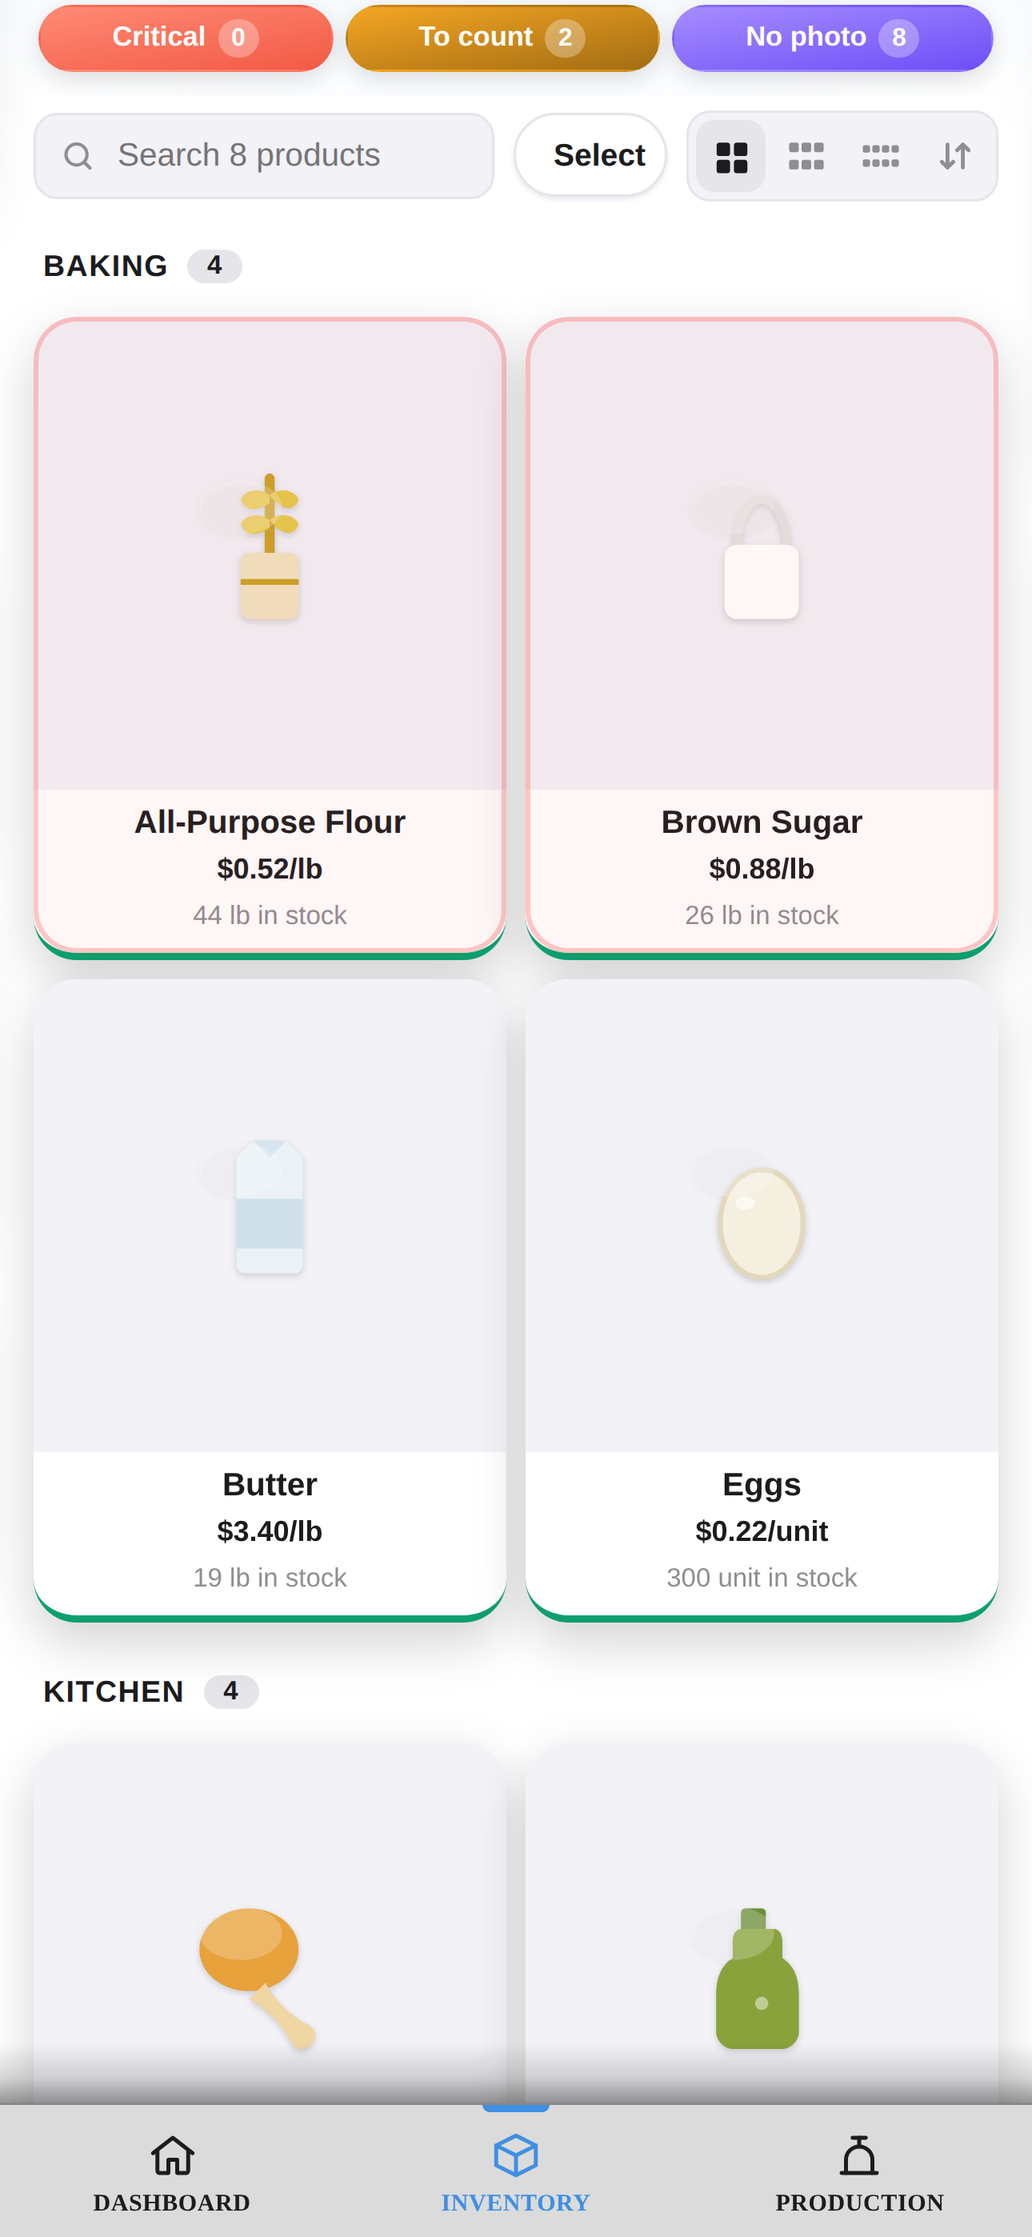
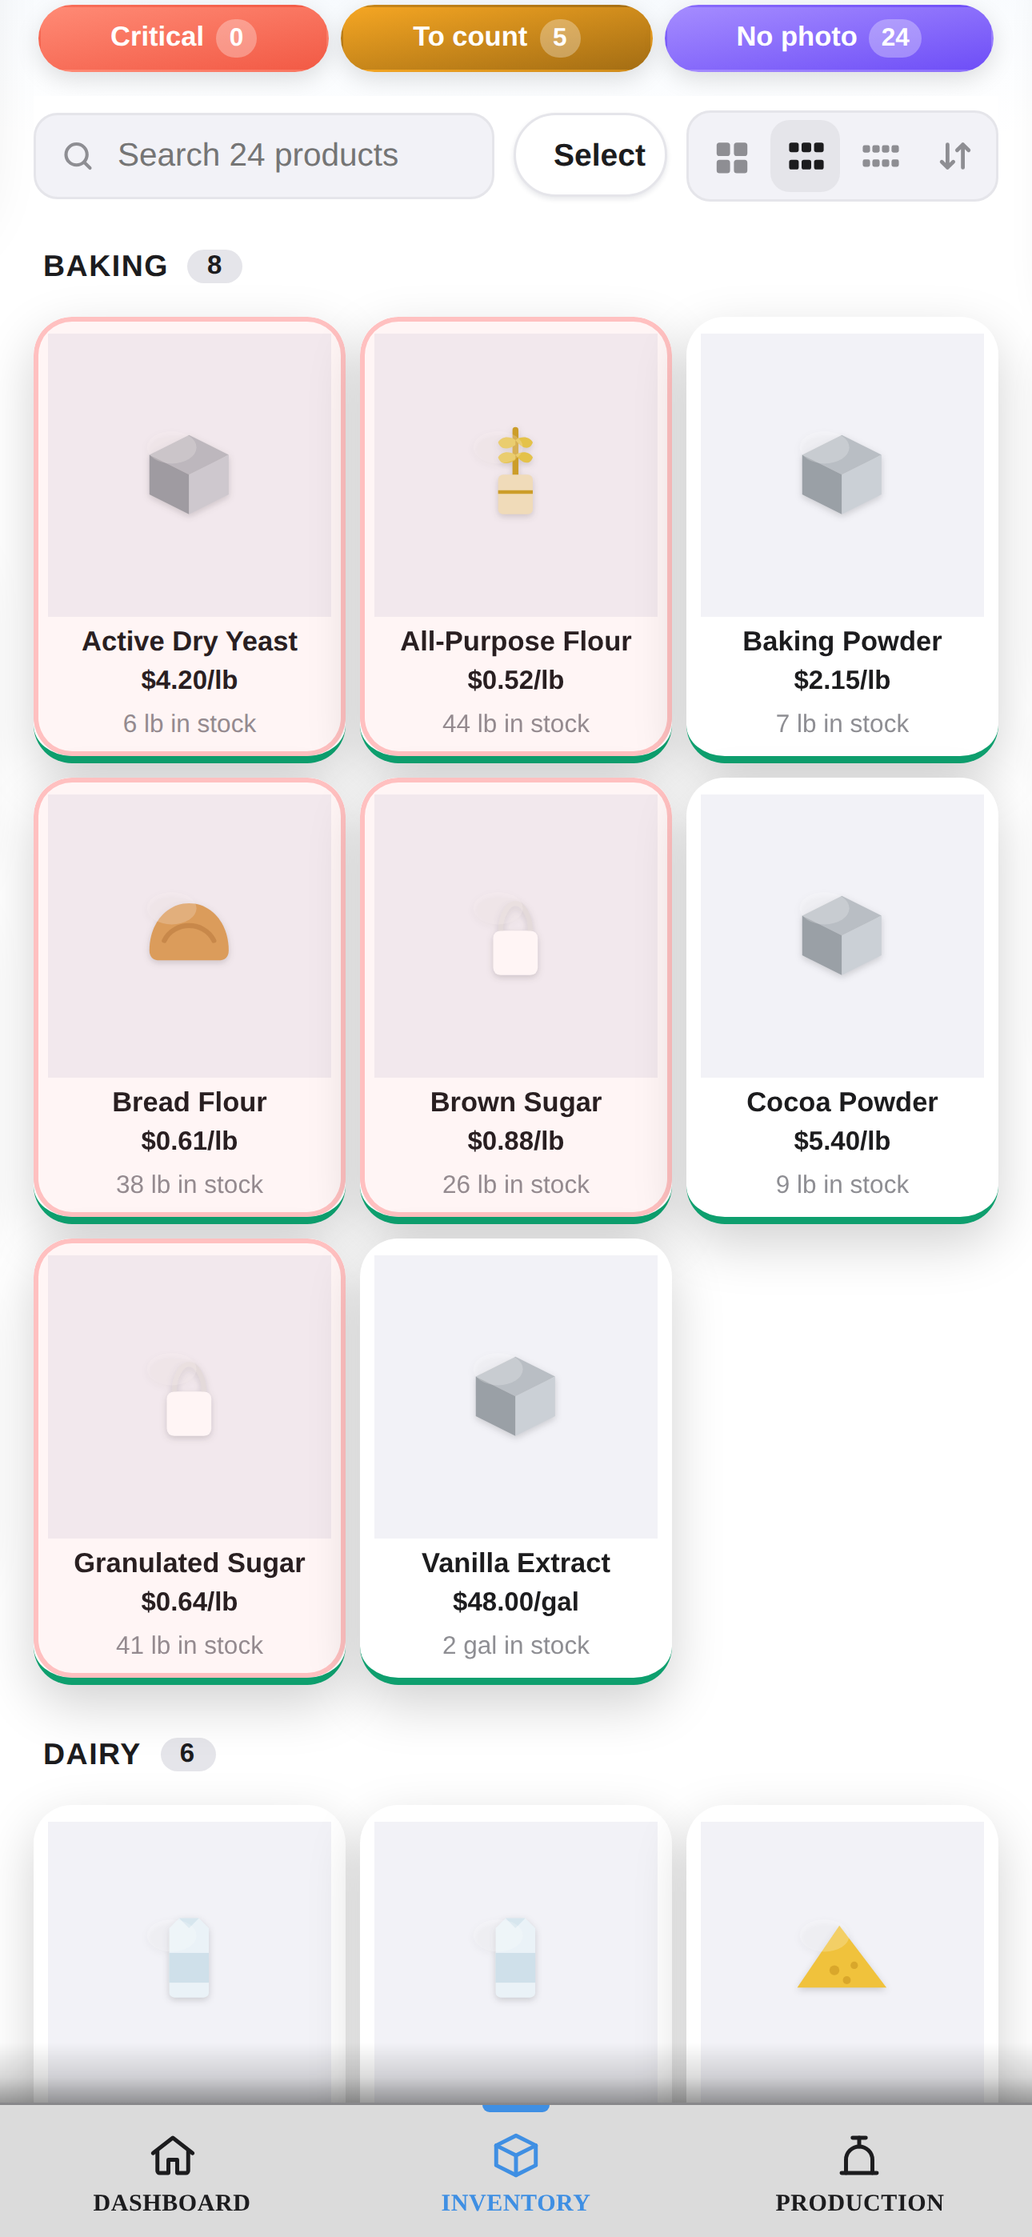
Capturas: un negocio con movimiento en vez de una demo vacía
Las pantallas se veían huecas y era un problema de datos, no de diseño: con 8
productos y 3 recetas, media grilla quedaba en blanco y la app parecía recién
instalada. Ahora la panadería inventada tiene 24 productos en 4 categorías, 8
recetas, 11 recibos repartidos a lo largo del mes y 8 producciones registradas.
El mes cierra con $1,456.64 en recibos, $1,182 de ingresos estimados y 67% de
margen: números de alguien que trabaja, que es lo que la ficha tiene que mostrar.

Dos cambios de encuadre. El inventario pasa a tres columnas (`patron_inv_layout`
en localStorage, sin tocar el selector): en dos, 24 productos se veían como seis
tarjetas gigantes y volvía a parecer poca cosa.

Y Producción sale de la tanda. Sus fichas de receta no tienen foto, así que eran
ocho íconos de etiqueta idénticos y un tercio de pantalla vacío. En su lugar va
la hoja de Recibos, que muestra el calendario del mes poblado y la lista de
proveedores con montos — cuenta mejor que la app está en uso y además muestra la
función principal, el escaneo. Se abre desde la tarjeta del calendario del
dashboard, porque con recetas cargadas la tercera pestaña se la lleva Producción.

Las hojas a pantalla completa tapan la barra de abajo, así que hay que cerrarlas
con Escape antes de volver al dashboard: el orden de las capturas no es
cosmético.

Claude-Session: https://claude.ai/code/session_01QHYvS7ErrmfPLF5JLpFZV7

diff --git a/scripts/capture-ios-screenshots.js b/scripts/capture-ios-screenshots.js
@@ -31,91 +31,139 @@ const hoy = new Date();
 const iso = (d) => d.toISOString().slice(0, 10);
 const diasAtras = (n) => iso(new Date(hoy.getTime() - n * 86400000));
 
-const CAT = { horno: 'cat_baking', cocina: 'cat_kitchen' };
+const CAT = { horno:'cat_baking', lacteos:'cat_dairy', cocina:'cat_kitchen', empaque:'cat_packaging' };
 
-const inventory = [
-  { id:'i1', name:'All-Purpose Flour', unit:'lb', costPerUnit:0.52, qtyOnHand:44, stockFullRef:50, salePrice:1.2, categoryId:CAT.horno,    supplier:'Sysco', sku:'FLR-50' },
-  { id:'i2', name:'Brown Sugar',       unit:'lb', costPerUnit:0.88, qtyOnHand:26, stockFullRef:30, salePrice:1.95, categoryId:CAT.horno,    supplier:'Sysco', sku:'SGR-30' },
-  { id:'i3', name:'Butter',            unit:'lb', costPerUnit:3.40, qtyOnHand:19, stockFullRef:24, salePrice:7.5, categoryId:CAT.horno,    supplier:'Dairy Co', sku:'BTR-24' },
-  { id:'i4', name:'Whole Milk',        unit:'gal',costPerUnit:3.95, qtyOnHand:9,  stockFullRef:12, salePrice:6.9, categoryId:CAT.cocina,   supplier:'Dairy Co', sku:'MLK-12' },
-  { id:'i5', name:'Chicken Breast',    unit:'lb', costPerUnit:2.85, qtyOnHand:40, stockFullRef:48, salePrice:6.4, categoryId:CAT.cocina,   supplier:'Restaurant Depot', sku:'CHK-48' },
-  { id:'i6', name:'Eggs',              unit:'unidad', costPerUnit:0.22, qtyOnHand:300, stockFullRef:360, salePrice:0.55, categoryId:CAT.horno,   supplier:'Dairy Co', sku:'EGG-360' },
-  { id:'i7', name:'Paper Towels 12pk', unit:'caja', costPerUnit:18.90, qtyOnHand:2, stockFullRef:8, salePrice:34.9, categoryId:CAT.cocina,   supplier:'Costco', sku:'PPR-12' },
-  { id:'i8', name:'Olive Oil',         unit:'gal',costPerUnit:22.50, qtyOnHand:5,  stockFullRef:6,  salePrice:44.0, categoryId:CAT.cocina,  supplier:'Sysco', sku:'OIL-6' },
+/* Los datos son de una panadería inventada, y son deliberadamente abundantes: con
+   ocho productos y tres recetas las pantallas se veían huecas —media grilla en
+   blanco, un "sin datos" donde va lo interesante— y una ficha así no convence a
+   nadie. Un negocio real tiene decenas de productos, compras todas las semanas y
+   producción registrada, y eso es lo que tiene que mostrar la captura.
+   Poner datos reales de alguien en la App Store no corresponde, de ahí el invento. */
+const PRODUCTOS = [
+  // [id, nombre, unidad, costo, precioVenta, enStock, stockLleno, categoría, proveedor]
+  ['i1','All-Purpose Flour','lb',0.52,1.20,44,50,CAT.horno,'Sysco'],
+  ['i2','Bread Flour','lb',0.61,1.40,38,45,CAT.horno,'Sysco'],
+  ['i3','Brown Sugar','lb',0.88,1.95,26,30,CAT.horno,'Sysco'],
+  ['i4','Granulated Sugar','lb',0.64,1.50,41,50,CAT.horno,'Sysco'],
+  ['i5','Active Dry Yeast','lb',4.20,9.00,6,8,CAT.horno,'Sysco'],
+  ['i6','Baking Powder','lb',2.15,4.80,7,9,CAT.horno,'Sysco'],
+  ['i7','Cocoa Powder','lb',5.40,11.50,9,12,CAT.horno,'Gourmet Supply'],
+  ['i8','Vanilla Extract','gal',48.00,98.00,2,3,CAT.horno,'Gourmet Supply'],
+  ['i9','Butter','lb',3.40,7.50,19,24,CAT.lacteos,'Dairy Co'],
+  ['i10','Whole Milk','gal',3.95,6.90,9,12,CAT.lacteos,'Dairy Co'],
+  ['i11','Heavy Cream','gal',6.80,12.40,5,8,CAT.lacteos,'Dairy Co'],
+  ['i12','Cream Cheese','lb',3.10,6.75,14,18,CAT.lacteos,'Dairy Co'],
+  ['i13','Eggs','unidad',0.22,0.55,300,360,CAT.lacteos,'Dairy Co'],
+  ['i14','Buttermilk','gal',4.40,8.20,4,6,CAT.lacteos,'Dairy Co'],
+  ['i15','Chicken Breast','lb',2.85,6.40,40,48,CAT.cocina,'Restaurant Depot'],
+  ['i16','Olive Oil','gal',22.50,44.00,5,6,CAT.cocina,'Sysco'],
+  ['i17','Sea Salt','lb',1.10,2.60,12,15,CAT.cocina,'Sysco'],
+  ['i18','Black Pepper','lb',7.80,16.00,3,4,CAT.cocina,'Gourmet Supply'],
+  ['i19','Yellow Onions','lb',0.74,1.80,28,35,CAT.cocina,'Produce Direct'],
+  ['i20','Fresh Spinach','lb',2.40,5.50,11,16,CAT.cocina,'Produce Direct'],
+  ['i21','Bakery Boxes 9in','caja',0.38,0.90,180,240,CAT.empaque,'Uline'],
+  ['i22','Parchment Paper','caja',24.90,48.00,4,6,CAT.empaque,'Uline'],
+  ['i23','Paper Towels 12pk','caja',18.90,34.90,2,8,CAT.empaque,'Costco'],
+  ['i24','Takeout Bags','caja',31.50,62.00,5,7,CAT.empaque,'Uline'],
 ];
+
+const inventory = PRODUCTOS.map(([id,name,unit,costPerUnit,salePrice,qtyOnHand,stockFullRef,categoryId,supplier]) => ({
+  id, name, unit, costPerUnit, salePrice, qtyOnHand, stockFullRef, categoryId, supplier,
+  updated:false, photo:null, sku:'',
+}));
 
 // Un precio que subió: es lo que dispara el aviso de cambio de precio, o sea una
 // de las cosas que la ficha quiere mostrar funcionando.
 inventory[0].lastPriceChangePct = 6.2;
 inventory[0].prevCostPerUnit = 0.49;
 
-const purchases = [
-  { id:'p1', ingId:'i1', qty:50, unit:'lb',  totalPrice:26.00, supplier:'Sysco',             date:diasAtras(2) },
-  { id:'p2', ingId:'i5', qty:48, unit:'lb',  totalPrice:136.80,supplier:'Restaurant Depot',  date:diasAtras(4) },
-  { id:'p3', ingId:'i3', qty:24, unit:'lb',  totalPrice:81.60, supplier:'Dairy Co',          date:diasAtras(9) },
-  { id:'p4', ingId:'i6', qty:360,unit:'unidad', totalPrice:79.20, supplier:'Dairy Co',       date:diasAtras(11) },
-  { id:'p5', ingId:'i8', qty:6,  unit:'gal', totalPrice:135.00,supplier:'Sysco',             date:diasAtras(17) },
-];
-
 const linea = (ingId, rawName, qty, unit, totalPrice) => ({ ingId, rawName, qty, unit, totalPrice });
+const porNombre = (n) => inventory.find(i => i.name === n);
+const compra = (n, qty, total) => { const i = porNombre(n); return linea(i.id, i.name, qty, i.unit, total); };
 
+/* El gasto del mes NO sale de purchases sino de los recibos (spendSplitForMonth en
+   app-03 recorre receipts): sin estos el dashboard mostraba $0.00 y el anillo en
+   0%, que es lo peor que puede mostrar una ficha de tienda. Van repartidos a lo
+   largo del mes para que el calendario de la tarjeta de recibos se vea poblado. */
 const receipts = [
-  { id:'rc1', date:diasAtras(2),  supplier:'Sysco',            total:26.00,  itemCount:1, createdAt:diasAtras(2),
-    appliedItems:[ linea('i1','All-Purpose Flour',50,'lb',26.00) ] },
-  { id:'rc2', date:diasAtras(4),  supplier:'Restaurant Depot', total:136.80, itemCount:1, createdAt:diasAtras(4),
-    appliedItems:[ linea('i5','Chicken Breast',48,'lb',136.80) ] },
-  { id:'rc3', date:diasAtras(6),  supplier:'City Power',       total:145.30, itemCount:1, createdAt:diasAtras(6),
+  { id:'rc1',  date:diasAtras(1),  supplier:'Sysco',            total:184.60, itemCount:4, createdAt:diasAtras(1),
+    appliedItems:[ compra('All-Purpose Flour',50,26.00), compra('Bread Flour',45,27.45), compra('Granulated Sugar',50,32.00), compra('Vanilla Extract',2,96.00) ] },
+  { id:'rc2',  date:diasAtras(2),  supplier:'Produce Direct',   total:64.30,  itemCount:2, createdAt:diasAtras(2),
+    appliedItems:[ compra('Yellow Onions',35,25.90), compra('Fresh Spinach',16,38.40) ] },
+  { id:'rc3',  date:diasAtras(4),  supplier:'Restaurant Depot', total:136.80, itemCount:1, createdAt:diasAtras(4),
+    appliedItems:[ compra('Chicken Breast',48,136.80) ] },
+  { id:'rc4',  date:diasAtras(5),  supplier:'City Power',       total:212.40, itemCount:1, createdAt:diasAtras(5),
     manual:true, manualKind:'expense', appliedItems:[] },
-  { id:'rc4', date:diasAtras(9),  supplier:'Dairy Co',         total:81.60,  itemCount:1, createdAt:diasAtras(9),
-    appliedItems:[ linea('i3','Butter',24,'lb',81.60) ] },
-  { id:'rc5', date:diasAtras(11), supplier:'Dairy Co',         total:79.20,  itemCount:1, createdAt:diasAtras(11),
-    appliedItems:[ linea('i6','Eggs',360,'unidad',79.20) ] },
+  { id:'rc5',  date:diasAtras(7),  supplier:'Dairy Co',         total:238.90, itemCount:4, createdAt:diasAtras(7),
+    appliedItems:[ compra('Butter',24,81.60), compra('Whole Milk',12,47.40), compra('Heavy Cream',8,54.40), compra('Cream Cheese',18,55.80) ] },
+  { id:'rc6',  date:diasAtras(9),  supplier:'Uline',            total:168.60, itemCount:3, createdAt:diasAtras(9),
+    appliedItems:[ compra('Bakery Boxes 9in',240,91.20), compra('Parchment Paper',2,49.80), compra('Takeout Bags',1,31.50) ] },
+  { id:'rc7',  date:diasAtras(11), supplier:'Dairy Co',         total:79.20,  itemCount:1, createdAt:diasAtras(11),
+    appliedItems:[ compra('Eggs',360,79.20) ] },
+  { id:'rc8',  date:diasAtras(13), supplier:'City Water',       total:88.15,  itemCount:1, createdAt:diasAtras(13),
+    manual:true, manualKind:'expense', appliedItems:[] },
+  { id:'rc9',  date:diasAtras(15), supplier:'Gourmet Supply',   total:112.00, itemCount:2, createdAt:diasAtras(15),
+    appliedItems:[ compra('Cocoa Powder',12,64.80), compra('Black Pepper',4,31.20) ] },
+  { id:'rc10', date:diasAtras(16), supplier:'Sysco',            total:96.70,  itemCount:3, createdAt:diasAtras(16),
+    appliedItems:[ compra('Olive Oil',3,67.50), compra('Sea Salt',15,16.50), compra('Active Dry Yeast',3,12.60) ] },
+  { id:'rc11', date:diasAtras(18), supplier:'Internet Co',      total:74.99,  itemCount:1, createdAt:diasAtras(18),
+    manual:true, manualKind:'expense', appliedItems:[] },
 ];
 
+const purchases = receipts.flatMap(r => (r.appliedItems||[]).map((it, n) => ({
+  id: r.id + '-p' + n, ingId: it.ingId, qty: it.qty, unit: it.unit,
+  totalPrice: it.totalPrice, supplier: r.supplier, date: r.date,
+})));
+
+const ing = (nombre, qty) => ({ ingId: porNombre(nombre).id, qty });
 const recipes = [
-  { id:'r1', name:'Croissant (dozen)', salePrice:42, components:[{ingId:'i1', qty:3},{ingId:'i3', qty:1.5},{ingId:'i6', qty:6}] },
-  { id:'r2', name:'Chicken Pot Pie',   salePrice:14, components:[{ingId:'i5', qty:0.6},{ingId:'i1', qty:0.4},{ingId:'i4', qty:0.2}] },
-  { id:'r3', name:'Banana Bread',      salePrice:9,  components:[{ingId:'i1', qty:1.2},{ingId:'i2', qty:0.5},{ingId:'i6', qty:2}] },
-  { id:'r4', name:'Butter Cookies (24)', salePrice:18, components:[{ingId:'i1', qty:2},{ingId:'i2', qty:0.8},{ingId:'i3', qty:1}] },
+  { id:'r1', name:'Croissant (dozen)',   salePrice:42, components:[ing('Bread Flour',3), ing('Butter',1.5), ing('Eggs',6)] },
+  { id:'r2', name:'Sourdough Loaf',      salePrice:11, components:[ing('Bread Flour',1.4), ing('Sea Salt',0.05), ing('Active Dry Yeast',0.02)] },
+  { id:'r3', name:'Banana Bread',        salePrice:9,  components:[ing('All-Purpose Flour',1.2), ing('Brown Sugar',0.5), ing('Eggs',2)] },
+  { id:'r4', name:'Butter Cookies (24)', salePrice:18, components:[ing('All-Purpose Flour',2), ing('Brown Sugar',0.8), ing('Butter',1)] },
+  { id:'r5', name:'Chocolate Cake',      salePrice:34, components:[ing('All-Purpose Flour',2.2), ing('Cocoa Powder',0.6), ing('Eggs',8), ing('Butter',1.2)] },
+  { id:'r6', name:'Cheesecake',          salePrice:38, components:[ing('Cream Cheese',3), ing('Heavy Cream',0.5), ing('Eggs',6), ing('Granulated Sugar',1)] },
+  { id:'r7', name:'Chicken Pot Pie',     salePrice:14, components:[ing('Chicken Breast',0.6), ing('All-Purpose Flour',0.4), ing('Whole Milk',0.2)] },
+  { id:'r8', name:'Spinach Quiche',      salePrice:26, components:[ing('Fresh Spinach',0.8), ing('Eggs',8), ing('Heavy Cream',0.4), ing('Bread Flour',1)] },
 ];
 
-// Producciones ya registradas. Sin esto el recap del mes muestra "No outflows
-// recorded in this period" donde deberían ir las ganancias estimadas: el
-// apartado más vendedor de esa pantalla quedaba vacío. Cada corrida descuenta
-// insumos y deja precio y costo del momento, que es de donde salen las
-// estimaciones (ver periodSpendSplit en app-03).
+/* Producciones ya registradas. Sin esto el recap del mes muestra "No outflows
+   recorded in this period" donde deberían ir las ganancias estimadas: el apartado
+   más vendedor de esa pantalla quedaba vacío. */
+const produccion = (id, rec, count, dias) => {
+  const r = recipes.find(x => x.id === rec);
+  const items = r.components.map(c => {
+    const i = inventory.find(x => x.id === c.ingId);
+    return { ingId:i.id, ingName:i.name, qty:+(c.qty * count).toFixed(2), unit:i.unit, costAt:i.costPerUnit };
+  });
+  const costTotal = +items.reduce((a, it) => a + it.qty * it.costAt, 0).toFixed(2);
+  return { id, type:'production', recipeId:r.id, recipeName:r.name, count, items,
+           saleTotal:+(r.salePrice * count).toFixed(2), costTotal,
+           date:diasAtras(dias), createdAt:diasAtras(dias) };
+};
 const outflows = [
-  { id:'o1', type:'production', recipeId:'r1', recipeName:'Croissant (dozen)', count:14,
-    items:[{ ingId:'i1', ingName:'All-Purpose Flour', qty:42, unit:'lb', costAt:0.52 },
-           { ingId:'i3', ingName:'Butter', qty:21, unit:'lb', costAt:3.40 },
-           { ingId:'i6', ingName:'Eggs', qty:84, unit:'unidad', costAt:0.22 }],
-    saleTotal:588, costTotal:112.32, date:diasAtras(3), createdAt:diasAtras(3) },
-  { id:'o2', type:'production', recipeId:'r3', recipeName:'Banana Bread', count:30,
-    items:[{ ingId:'i1', ingName:'All-Purpose Flour', qty:36, unit:'lb', costAt:0.52 },
-           { ingId:'i2', ingName:'Brown Sugar', qty:15, unit:'lb', costAt:0.88 },
-           { ingId:'i6', ingName:'Eggs', qty:60, unit:'unidad', costAt:0.22 }],
-    saleTotal:270, costTotal:45.12, date:diasAtras(6), createdAt:diasAtras(6) },
-  { id:'o3', type:'production', recipeId:'r4', recipeName:'Butter Cookies (24)', count:18,
-    items:[{ ingId:'i1', ingName:'All-Purpose Flour', qty:36, unit:'lb', costAt:0.52 },
-           { ingId:'i2', ingName:'Brown Sugar', qty:14.4, unit:'lb', costAt:0.88 },
-           { ingId:'i3', ingName:'Butter', qty:18, unit:'lb', costAt:3.40 }],
-    saleTotal:324, costTotal:92.59, date:diasAtras(10), createdAt:diasAtras(10) },
+  produccion('o1','r1',14,2),  produccion('o2','r2',40,3),
+  produccion('o3','r3',30,5),  produccion('o4','r5',9,6),
+  produccion('o5','r4',18,8),  produccion('o6','r6',7,10),
+  produccion('o7','r8',12,12), produccion('o8','r7',22,14),
 ];
 
 const ESTADO = {
-  inventory, purchases, recipes, receipts,
+  inventory, purchases, recipes, receipts, outflows,
   aliasMap: {}, priceAlertThreshold: 5,
   cycleCountEnabled: true, cycleCountPct: 20, cycleCountIntervalDays: 7,
   cycleCountLastDate: diasAtras(7), cycleCountCursor: 0,
   deletedInventoryIds: [], deletedReceiptIds: [], deletedPurchaseIds: [],
-  businessName: 'Bluebird Bakery', monthlyBudget: 800, budgetMeta: {},
+  businessName: 'Bluebird Bakery', monthlyBudget: 1800, budgetMeta: {},
   bizProfile: {}, profitsVisibleToMembers: true,
   categories: [
-    { id:CAT.horno,  name:'Baking' },
-    { id:CAT.cocina, name:'Kitchen' },
+    { id:CAT.horno,   name:'Baking' },
+    { id:CAT.lacteos, name:'Dairy' },
+    { id:CAT.cocina,  name:'Kitchen' },
+    { id:CAT.empaque, name:'Packaging' },
   ],
   expenseCategories: [], calNotes: [], deletedCalNoteIds: [],
-  outflows, outflowArchive: {}, deletedRecipeIds: [],
+  outflowArchive: {}, deletedRecipeIds: [],
   deletedAssetIds: [], deletedMaintIds: [], deletedCatalogIds: [],
   deletedClientIds: [], deletedMaintLogIds: [],
 };
@@ -129,7 +177,6 @@ const PANTALLAS = [
   { archivo: 'dashboard',  tab: 'dashboard' },
   { archivo: 'inventory',  tab: 'inventario', desplazar: 210 },
   { archivo: 'production', tab: 'produccion' },
-  { archivo: 'receipts',   tab: 'recibos' },
 ];
 
 (async () => {
@@ -145,6 +192,12 @@ const PANTALLAS = [
   await page.addInitScript((estado) => {
     localStorage.setItem('patron_lang', 'en');
     localStorage.setItem('patron_onboarded', '1');
+    // La grilla de inventario en dos columnas da tarjetas enormes: con 24
+    // productos entran seis por pantalla y se lee como una demo con poca carga.
+    // A tres columnas entran el doble y parece lo que es, un inventario de
+    // verdad. El valor sale de localStorage (ver invLayout en app-05), así que
+    // no hace falta ir a tocar el selector.
+    localStorage.setItem('patron_inv_layout', 'cols3');
     localStorage.setItem('patron_data_v1', JSON.stringify(estado));
   }, ESTADO);
 
@@ -170,12 +223,23 @@ const PANTALLAS = [
     console.log(salida);
   }
 
-  // Resumen del mes: no está en la barra de abajo, se entra por el enlace de la
-  // tarjeta de presupuesto en el dashboard.
-  const dash = page.locator('.bottom-nav-item[data-tab="dashboard"]');
-  if (await dash.count()) {
-    await dash.first().click();
-    await page.waitForTimeout(1000);
+  // Las dos pantallas que siguen no están en la barra de abajo. Se abren como
+  // hojas a pantalla completa que tapan esa barra, así que hay que cerrarlas con
+  // Escape antes de poder volver al dashboard: el orden acá no es cosmético.
+  const alDashboard = async () => {
+    await page.keyboard.press('Escape');
+    await page.waitForTimeout(700);
+    const d = page.locator('.bottom-nav-item[data-tab="dashboard"]');
+    if (!(await d.count())) return false;
+    await d.first().click({ timeout: 5000 }).catch(() => {});
+    await page.waitForTimeout(900);
+    await page.evaluate(() => window.scrollTo({ top: 0 }));
+    await page.waitForTimeout(300);
+    return true;
+  };
+
+  // Resumen del mes: se entra por el enlace de la tarjeta de presupuesto.
+  if (await alDashboard()) {
     const verMeses = page.locator('text=See all months').first();
     if (await verMeses.count()) {
       await verMeses.click();
@@ -195,6 +259,22 @@ const PANTALLAS = [
       console.log(salida);
     } else {
       console.log('(no se encontró "See all months" — se saltea reportes)');
+    }
+  }
+
+  // Recibos a pantalla completa: la abre la tarjeta del calendario del dashboard
+  // (#dash-calendar-tile → openReceiptsSheet en app-07). No está en la barra de
+  // abajo cuando hay recetas, porque ese lugar se lo lleva Producción.
+  if (await alDashboard()) {
+    const calendario = page.locator('#dash-calendar-tile');
+    if (await calendario.count()) {
+      await calendario.first().click();
+      await page.waitForTimeout(1800);
+      const salida = path.join(DESTINO, 'receipts.png');
+      await page.screenshot({ path: salida });
+      console.log(salida);
+    } else {
+      console.log('(sin tarjeta de calendario — se saltea recibos)');
     }
   }
 

diff --git a/scripts/build-ios-screenshots.py b/scripts/build-ios-screenshots.py
@@ -31,10 +31,10 @@ DESTINO = 'store-screenshots/ios'
 # localización en español hay que sacar capturas con la app en español y volver
 # a correr esto con las frases traducidas.
 CAPTURAS = [
-    ('dashboard.png',  'Your month, at a glance',  'Budget, spending and stock in one screen'),
-    ('inventory.png',  'Stock that counts itself', 'Every receipt updates what you have'),
-    ('reports.png',    'Know if you made money',   'Revenue, costs and margin, worked out for you'),
-    ('production.png', 'Recipes that discount stock', 'Log a batch, ingredients come off by themselves'),
+    ('dashboard.png', 'Your month, at a glance',  'Budget, spending and stock in one screen'),
+    ('receipts.png',  'Snap it. Dusty reads it.', 'Products, prices and quantities, filled in for you'),
+    ('inventory.png', 'Stock that counts itself', 'Every receipt updates what you have'),
+    ('reports.png',   'Know if you made money',   'Revenue, costs and margin, worked out for you'),
 ]
 
 def fuente(tam, negrita=False):
